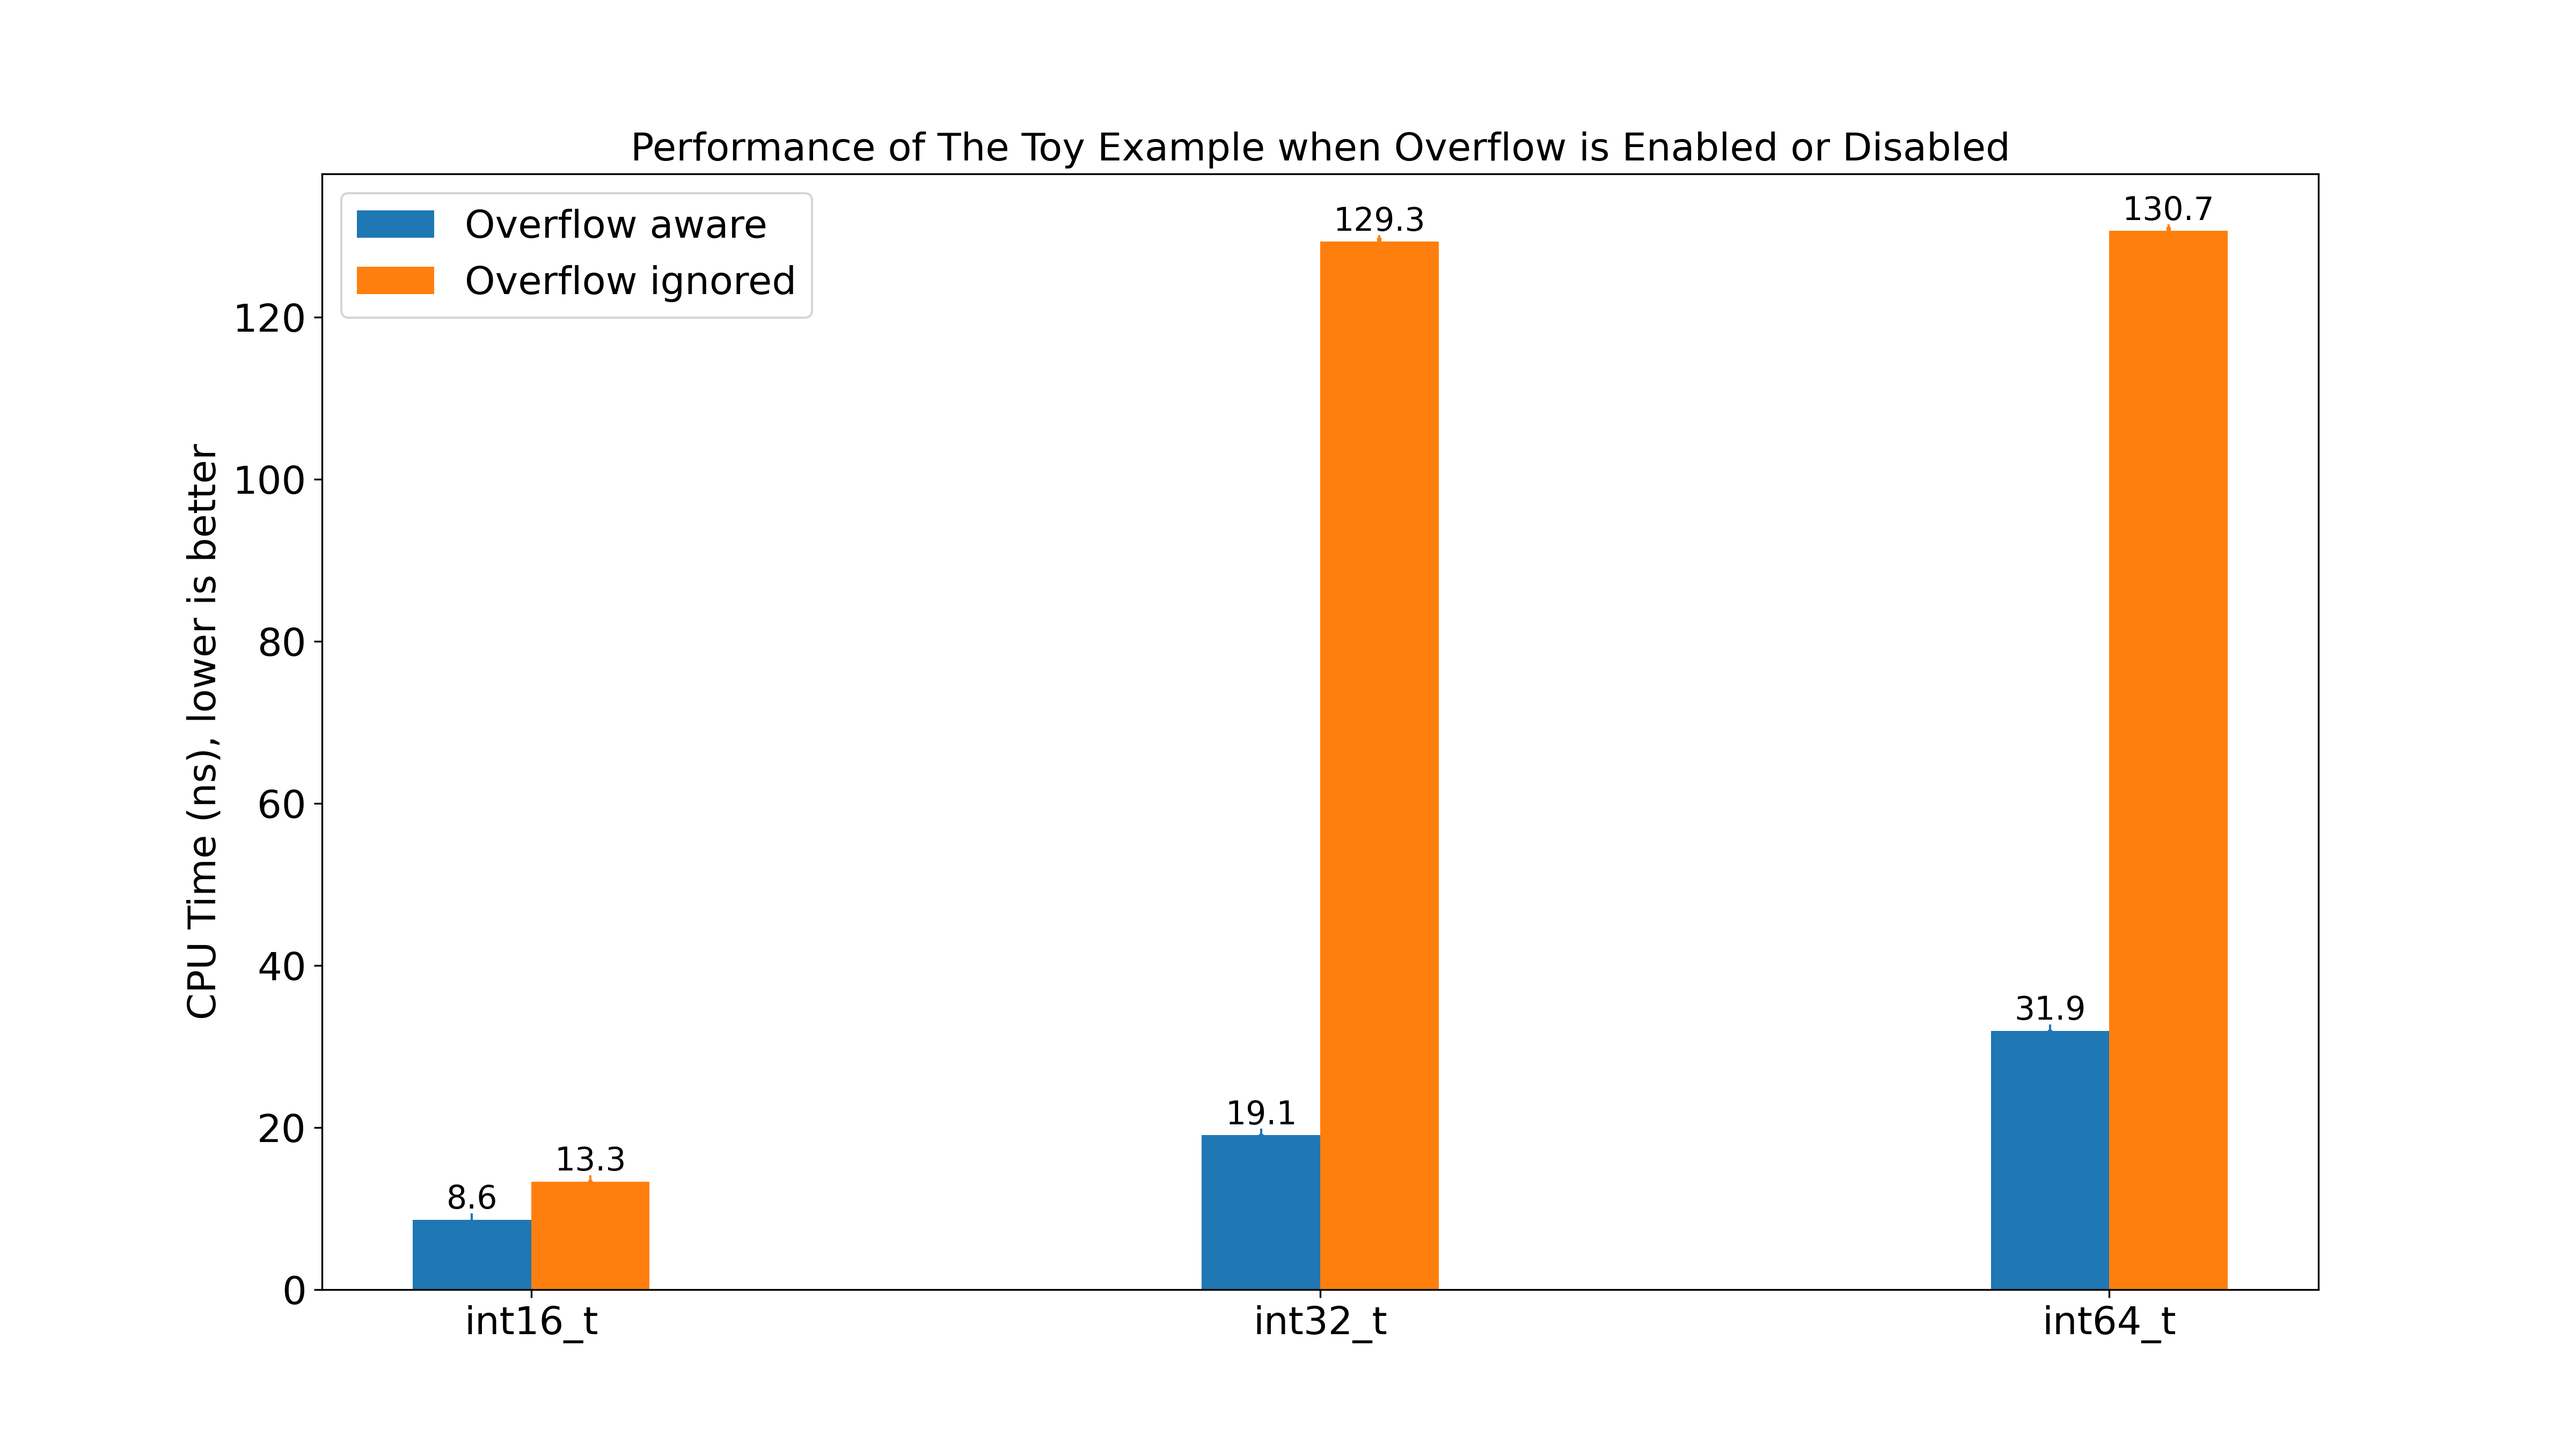
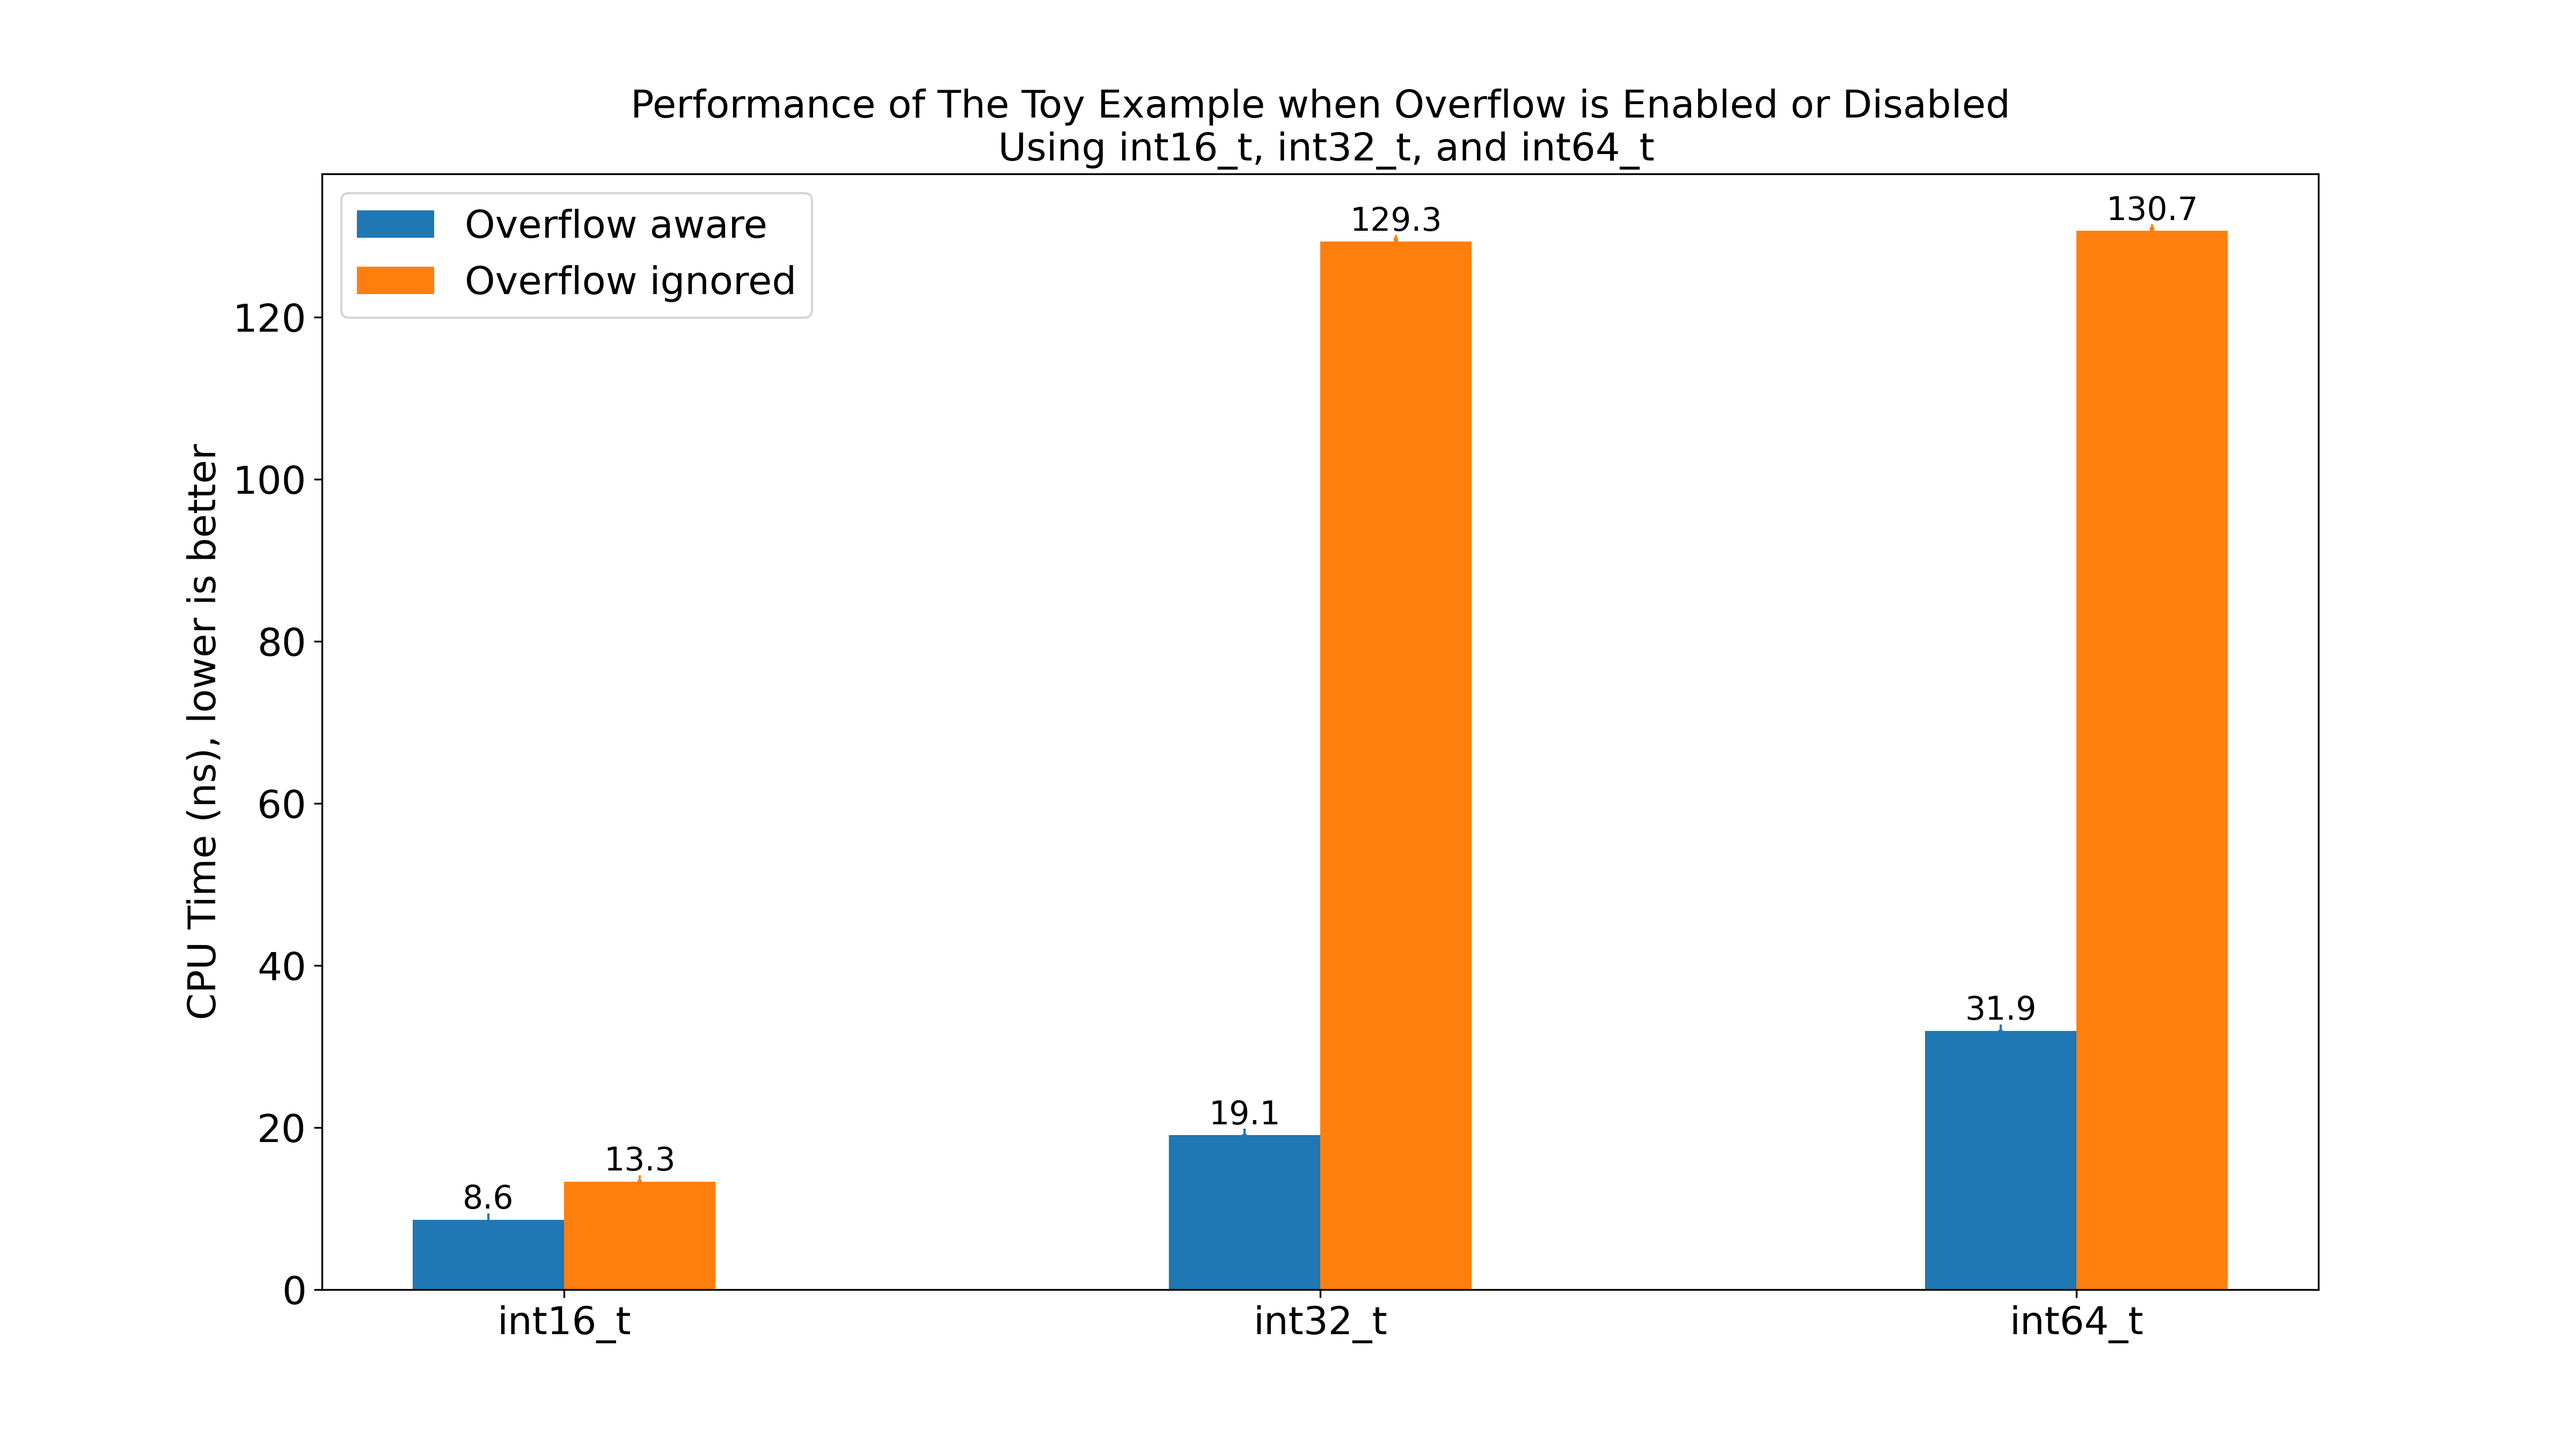
fenv

diff --git a/scripts/plot_data_type_int.py b/scripts/plot_data_type_int.py
@@ -1,0 +1,100 @@
+#!/usr/bin/python3
+
+# import proplot
+import matplotlib.pyplot as plt
+from mpl_toolkits.mplot3d import Axes3D
+from mpl_toolkits.mplot3d.art3d import Poly3DCollection
+import sys
+import numpy as np
+
+filename='bench_datatype_int'
+
+title = 'Performance of The Toy Example when Overflow is Enabled or Disabled\n Using int16_t, int32_t, and int64_t' 
+# x_axis_label = 'Performance of Element-wise Multiply-Add on a 16 by 16 matrix with Different Vectorization Methods' 
+
+size = "xx-large"
+
+xlabel = ['int16_t', 'int32_t', 'int64_t']
+legends = ['Overflow aware', 'Overflow ignored', ]
+
+cluster_count = 3
+
+xss = []
+xss.append(np.arange(cluster_count))
+
+f = open(filename, "r")
+xs = f.readlines()
+
+d = {}
+
+for x in xs:
+    if '-' in x:
+        pass
+    elif x.startswith('Benchmark'):
+        pass
+    elif x == '\n':
+        pass
+    else:
+        cpu_time = float(x.split()[1]) # check/double           25.4 ns         25.4 ns     28695205
+        xx = x.split()[0].split('/') 
+        bench_name = f'{xx[2]}'
+        arg = f'{xx[0]}'
+        if not (bench_name in d):
+            d[bench_name] = {}
+        if arg in d[bench_name]:
+            cpu_time = 0 if cpu_time < 2 else cpu_time
+            d[bench_name][arg].append(cpu_time)
+        else:
+            d[bench_name][arg] = [cpu_time]
+
+
+# legends = list(d.keys())
+print(d.keys()) 
+
+fig, ax = plt.subplots(figsize =(16, 9))
+
+barWidth = 0.2
+
+yss = []
+errss = []
+
+for bench_name, bench_vals in d.items():
+
+    xss.append([x + barWidth for x in xss[-1]])
+    ys = []
+    errs = []
+    for arg, (cpu_time_xs) in bench_vals.items():
+        ys.append(sum(cpu_time_xs)/len(cpu_time_xs))
+        errs.append(np.std(cpu_time_xs))
+    yss.append(ys)
+    errss.append(errs)
+
+
+for (xs,ys,errs) in zip(xss,yss,errss):
+    print(xs)
+    # print(ys)
+    ax.bar(xs,ys,width=barWidth, )
+    
+rects = ax.patches
+labels = [f"label{i}" for i in range(len(rects))]
+for rect, label in zip(rects, labels):
+    height = rect.get_height()
+    txt = height
+    if txt != 0:
+        ax.text(
+            rect.get_x() + rect.get_width() / 2, height + 0.5, str(round(txt,1)), ha="center", va="bottom", fontsize='x-large'
+        )
+
+plt.yticks(fontsize=size)
+
+ax.legend(labels=legends, fontsize=size, loc="upper left")
+# ax.set_ylim(ymin=0,ymax=80)
+for (xs,ys,errs) in zip(xss,yss,errss):
+    ax.errorbar(xs,ys,yerr=errs,fmt="|",elinewidth=2,)
+
+
+plt.xticks([  x-0.5*barWidth for x in xss[1] ], list(xlabel), fontsize=size)
+ax.set_ylabel("CPU Time (ns), lower is better", fontsize=size)
+# ax.set_xlabel(x_axis_label, fontsize=size)
+ax.set_title(title, fontsize=size)
+plt.savefig( filename +'.png', dpi=300)

diff --git a/src/float/bench_except.cpp b/src/float/bench_except.cpp
@@ -3,16 +3,28 @@
 #include <stdlib.h>
 #include <benchmark/benchmark.h>
 
+// static void except_on(benchmark::State &state) {
+//   for (auto _ : state) {
+//     std::feclearexcept (FE_ALL_EXCEPT);
+//     feenableexcept (FE_INEXACT | FE_INVALID);
+//   }
+//   fedisableexcept (FE_INEXACT | FE_INVALID);
+// }
+
+// static void except_off(benchmark::State &state) {
+  // for (auto _ : state) {
+      // fedisableexcept (FE_INEXACT | FE_INVALID);
+  // }
+// }
+
 
 static void except_on_off(benchmark::State &state) {
   for (auto _ : state) {
-      // std::feclearexcept (FE_ALL_EXCEPT);
+      std::feclearexcept (FE_ALL_EXCEPT);
       feenableexcept (FE_INEXACT | FE_INVALID);
       fedisableexcept (FE_INEXACT | FE_INVALID);
   }
 }
-
-
 static void except_on_off_local(benchmark::State &state) {
   for (auto _ : state) {
       std::feclearexcept (FE_ALL_EXCEPT);
@@ -22,10 +34,10 @@ static void except_on_off_local(benchmark::State &state) {
 }
 
 
-static void fetestexcept_lib(benchmark::State &state) {
+static void fetestexcept_local(benchmark::State &state) {
   std::feclearexcept (FE_ALL_EXCEPT);
   for (auto _ : state) {
-    if ( ! std::fetestexcept(FE_INEXACT)) {
+    if ( ! fetestexcept_local(FE_INEXACT)) {
       exit(0);
     }
   }
@@ -80,14 +92,27 @@ static void fetestexcept_feclearexcept_mxcsr(benchmark::State &state) {
   }
 }
 
-BENCHMARK(except_on_off);
-BENCHMARK(except_on_off_local);
-BENCHMARK(fetestexcept_lib);
+// BENCHMARK(except_on_off);
+
+
+BENCHMARK(fetestexcept_local);
 BENCHMARK(fetestexcept_x87);
 BENCHMARK(fetestexcept_mxcsr);
-BENCHMARK(feclearexcept_lib);
+
+// BENCHMARK(feclearexcept_lib);
+
 BENCHMARK(feclearexcept_local);
 BENCHMARK(feclearexcept_local_x87);
 BENCHMARK(feclearexcept_mxcsr);
-BENCHMARK(fetestexcept_feclearexcept_mxcsr);
+
+// BENCHMARK(fetestexcept_feclearexcept_mxcsr);
+
+
+// \item fetestexcept                           8.15 ns
+// \item fetestexcept\_x87                       4.33 ns
+// \item fetestexcept\_mxcsr                     4.55 ns
+
+// \item feclearexcept                          49.3 ns
+// \item feclearexcept\_local\_x87                45.5 ns
+// \item feclearexcept\_mxcsr                    9.42 ns
 BENCHMARK_MAIN();

diff --git a/scripts/plot_fenv.py b/scripts/plot_fenv.py
@@ -7,17 +7,15 @@ from mpl_toolkits.mplot3d.art3d import Poly3DCollection
 import sys
 import numpy as np
 
-filename='bench_datatype_int'
+filename='bench_fenv'
 
-title = 'Performance of The Toy Example when Overflow is Enabled or Disabled' 
-# x_axis_label = 'Performance of Element-wise Multiply-Add on a 16 by 16 matrix with Different Vectorization Methods' 
+title = 'Performance of fetestexcept and feclearexcept' 
 
 size = "xx-large"
 
-xlabel = ['int16_t', 'int32_t', 'int64_t']
-legends = ['Overflow aware', 'Overflow ignored', ]
+xlabel = ['fetestexcept', 'fetestexcept_x87', 'fetestexcept_mxcsr', 'feclearexcept', 'feclearexcept_x87', 'feclearexcept_mxcsr']
 
-cluster_count = 3
+cluster_count = 6
 
 xss = []
 xss.append(np.arange(cluster_count))
@@ -37,7 +35,7 @@ for x in xs:
     else:
         cpu_time = float(x.split()[1]) # check/double           25.4 ns         25.4 ns     28695205
         xx = x.split()[0].split('/') 
-        bench_name = f'{xx[2]}'
+        bench_name = '' # f'{xx[2]}'
         arg = f'{xx[0]}'
         if not (bench_name in d):
             d[bench_name] = {}
@@ -53,7 +51,7 @@ print(d.keys())
 
 fig, ax = plt.subplots(figsize =(16, 9))
 
-barWidth = 0.15
+barWidth = 0.2
 
 yss = []
 errss = []
@@ -87,13 +85,13 @@ for rect, label in zip(rects, labels):
 
 plt.yticks(fontsize=size)
 
-ax.legend(labels=legends, fontsize=size, loc="upper left")
+# ax.legend(labels=legends, fontsize=size, loc="upper left")
 # ax.set_ylim(ymin=0,ymax=80)
 for (xs,ys,errs) in zip(xss,yss,errss):
     ax.errorbar(xs,ys,yerr=errs,fmt="|",elinewidth=2,)
 
 
-plt.xticks([  x-0.5*barWidth for x in xss[1] ], list(xlabel), fontsize=size)
+plt.xticks([  x for x in xss[0] ], list(xlabel), fontsize=size, rotation = 10)
 ax.set_ylabel("CPU Time (ns), lower is better", fontsize=size)
 # ax.set_xlabel(x_axis_label, fontsize=size)
 ax.set_title(title, fontsize=size)

diff --git a/src/utils/cfenv_local.cpp b/src/utils/cfenv_local.cpp
@@ -80,6 +80,22 @@ inline int feclearexcept_local(int excepts) {
 
 	return (0);
 }
+
+inline int fetestexcept_local(int excepts)
+{
+	// Copied from https://github.com/openbsd/src/blob/master/lib/libm/arch/amd64/fenv.c
+	unsigned short status = 0;
+	unsigned int mxcsr = 0;
+
+	excepts &= FE_ALL_EXCEPT;
+
+	__asm__ volatile ("fnstsw %0" : "=am" (status));
+
+	// /* Store the MXCSR register state */
+	__asm__ volatile ("stmxcsr %0" : "=m" (mxcsr));
+
+	return ((status | mxcsr) & excepts);
+}
 inline int fetestexcept_x87(int excepts)
 {
 	// Copied from https://github.com/openbsd/src/blob/master/lib/libm/arch/amd64/fenv.c
